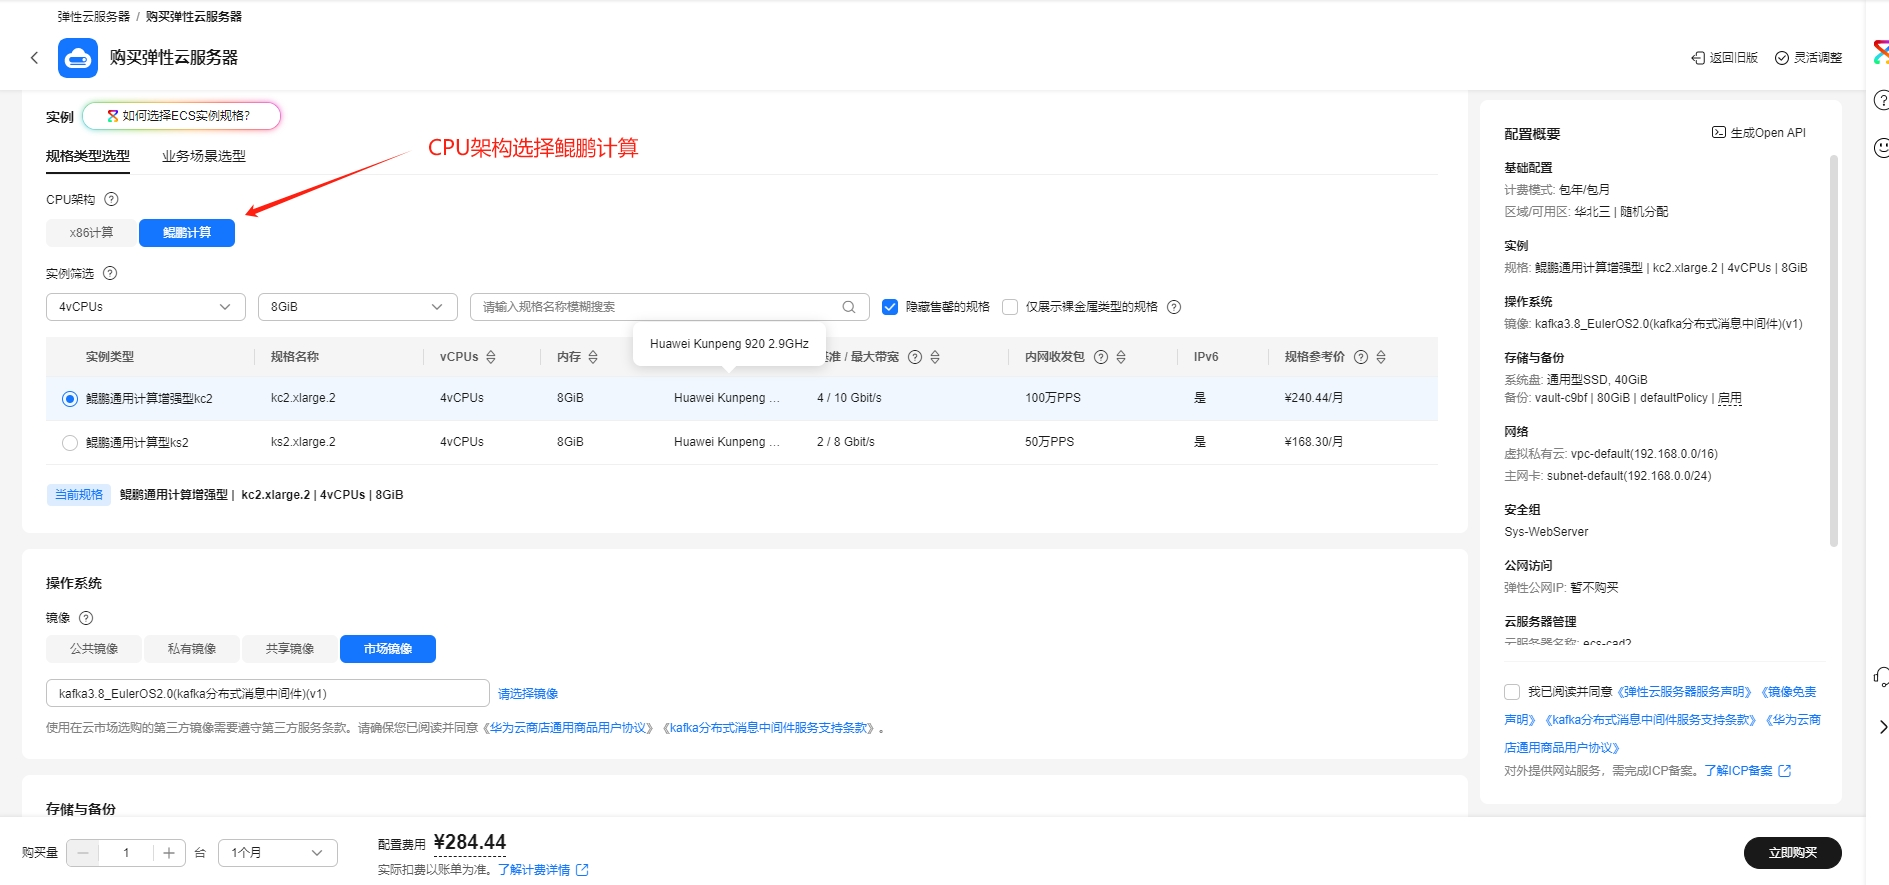
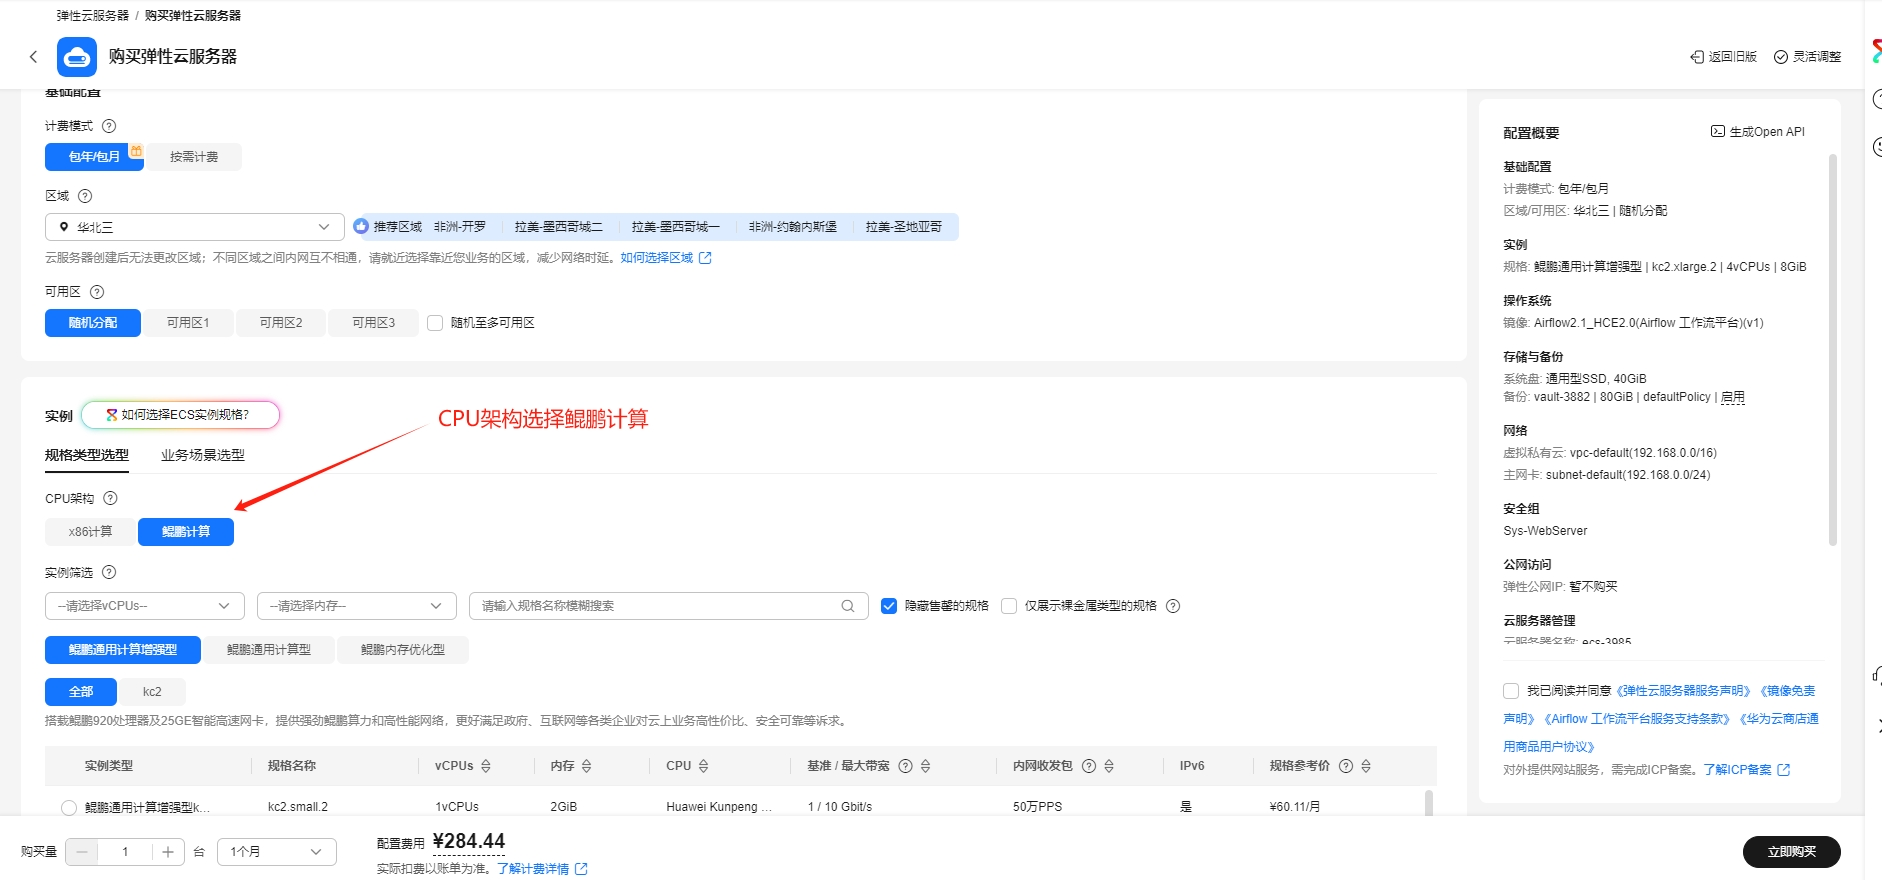
更新使用说明

diff --git a/docs/usage.md b/docs/usage.md
@@ -1,16 +1,15 @@
-# Kafka分布式消息中间件使用指南
+# Airflow工作流平台使用指南
 
 # 一、商品链接
 
-[Kafka分布式消息中间件](https://marketplace.huaweicloud.com/hidden/contents/92e0c0d9-6a15-41a3-b71f-caf3a8de0d81#productid=OFFI1129684662074359808)
+[Airflow工作流平台](https://marketplace.huaweicloud.com/hidden/contents/1fe654fa-4bc6-4386-90de-f27961f5f8cc#productid=OFFI1137281825272061952)
 
 # 二、商品说明
 
-**Apache Kafka** 是一个分布式、支持分区（parition）、多副本（replica）的分布式消息系统，它由服务器和客户端组成，这些服务器和客户端通过 高性能 TCP 网络协议进行通信。Kafka可以部署在本地和云中的裸机硬件、虚拟机和容器 环境上，Kafka集群具有高度可扩展性和容错性。
-
+**Apache Airflow** 是一个用于编排、调度和监控工作流的平台。它允许用户以编程的方式定义复杂的工作流，这些工作流可以包含多个任务，并且这些任务之间可以有依赖关系。工作流在 Airflow 中被定义为有向无环图（DAG，Directed Acyclic Graph）。DAG 由一系列的任务（Task）组成，任务之间通过定义好的依赖关系连接起来。
 # 三、商品购买
 
-您可以在云商店搜索 **Kafka分布式消息中间件**。
+您可以在云商店搜索 **Airflow工作流平台**。
 
 其中，地域、规格、推荐配置使用默认，购买方式根据您的需求选择按需/按月/按年，短期使用推荐按需，长期使用推荐按月/按年，确认配置后点击“立即购买”。
 
@@ -35,10 +34,7 @@
 在使用ECS控制台配置前，需要您提前配置好 **安全组规则**。
 
 > **安全组规则的配置如下：**
-> - 入方向规则放通端口9092，源地址内必须包含您的客户端ip，否则无法访问
-> - ZooKeeper 2181 Zookeeper 默认端口  
-    ZooKeeper 2887、2888、2889 zk集群之间进行数据/心跳同步的端口  
-    ZooKeeper 3887、3888、3889 zk集群之间进行领导者选举的端口  
+> - 入方向规则放通端口8080，源地址内必须包含您的客户端ip，否则无法访问
 > - 入方向规则放通 CloudShell 连接实例使用的端口 `22`，以便在控制台登录调试
 > - 出方向规则一键放通
 
@@ -66,71 +62,22 @@
 # 四、商品使用
 
 ## 修改 /etc/hosts 域名
-将 192.168.0.103 hadoop1 改成自己本机的私有 ip x.x.x.x hadoop1
+将 192.168.0.24 hadoop1 --> *.*.*.* hadoop1
 
-## 执行/root 目录的 kafka.sh 命令，1.1.1.1 替换成自己使用的公网 ip
-```bash
-./kafka.sh 1.1.1.1
-```
-## jps查看服务是否启动成功
-执行 kafka.sh 的命令有可能启动不了 zookeeper 或 kafka 服务，可以二次启动 kafka.sh脚本
+## 命令行进入 conda 虚拟环境
+conda activate python39
 
-## 手工启动 zookeeper 服务和 kafka 命令（如果服务没启动，根据以下命令手工启动）
-zookeeper 服务停止和启动 (路径如有更改 换成本地实际使用路径)
+## 启动 web 程序
+airflow webserver --port 8080 -D
 
-/opt/software/zookeeper-3.5.7/bin/zkServer.sh stop  
-/opt/software/zookeeper-3.5.7/bin/zkServer.sh start /opt/software/zookeeper3.5.7/conf/zoo.cfg #启动 zk
+## 启动 scheduler 调度程序
+airflow scheduler -D
 
-### kafka 服务停止和启动
-停止 kafka 服务
-/opt/software/kafka/bin/kafka-server-stop.sh  
+## 浏览 web ui
+ip:8080
 
-后台启动kafka服务  
-/opt/software/kafka/bin/kafka-server-start.sh -daemon /opt/software/kafka/config/server.properties
-
-### 其它kafka相关命令参考:
-#### Topic（主题）
-创建 Topic  
-bin/kafka-topics.sh --create --bootstrap-server hadoop01:9092 --replication-factor 3 --partitions 2 --topic test
-
-查询所有 Topic 列表  
-bin/kafka-topics.sh --list --bootstrap-server hadoop01:9092
-
-删除 Topic  
-bin/kafka-topics.sh --bootstrap-server hadoop01:9092 --delete --topic test
-
-#### 单个 Topic 扩容
-bin/kafka-topics.sh --bootstrap-server hadoop01:9092 --alter --topic test --partitions 3
-
-#### Producer（生产者）
-发送消息  
-bin/kafka-console-producer.sh --broker-list hadoop01:9092 --topic test
-
-发送消息，指定生产者参数 acks 为 -1，同时启用 LZ4 的压缩算法：  
-bin/kafka-console-producer.sh --broker-list hadoop01:9092 --topic test --request-required-acks -1 --producer-property compression.type=lz4
-
-#### Consumer（消费者）
-消费消息 从头开始消费（--from-beginning 参数表示从该主题最早的位移开始消费）  
-bin/kafka-console-consumer.sh --bootstrap-server hadoop01:9092 --topic test --frombeginning
-
-指定消费者组    
-bin/kafka-console-consumer.sh --bootstrap-server hadoop01:9092 --topic test --frombeginning --group group01
-
-从头开始消费（--from-beginning 参数表示从该主题最早的位移开始消费）    
-bin/kafka-console-consumer.sh --bootstrap-server hadoop01:9092 --topic test --frombeginning --max-messages 100  
-说明：--max-messages 100 , 表示消费 100 条记录后，停止消费。
-
-#### Consumer_groups（消费者组）
-查看消费者组的消费情况  
-bin/kafka-consumer-groups.sh --bootstrap-server hadoop01:9092 --describe --group group01
-
-查看所有消费者组提交的位移数据  
-对于 __consumer_offsets 而言，由于它保存了消费者组的位移数据，直接查看该主题消息是很方便的事情。下面的命令可以帮助我们直接查看消费者组提交的位移数据。   
-bin/kafka-console-consumer.sh --bootstrap-server hadoop01:9092 --topic __consumer_offsets --formatter "kafka.coordinator.group.GroupMetadataManager$OffsetsMessageFormatter" --from-beginning 
-
-除了查看位移提交数据，我们还可以直接读取该主题消息，查看消费者组的状态信息。  
-bin/kafka-console-consumer.sh --bootstrap-server hadoop01:9092 --topic __consumer_offsets --formatter "kafka.coordinator.group.GroupMetadataManager$GroupMetadataMessageFormatter" --frombeginning
+## 用户及密码
+airflow/123456
 
 ## 参考文档
-
-[Kafka官网](https://kafka.apache.org/)
+[Airflow官网](https://airflow.apache.org/)
